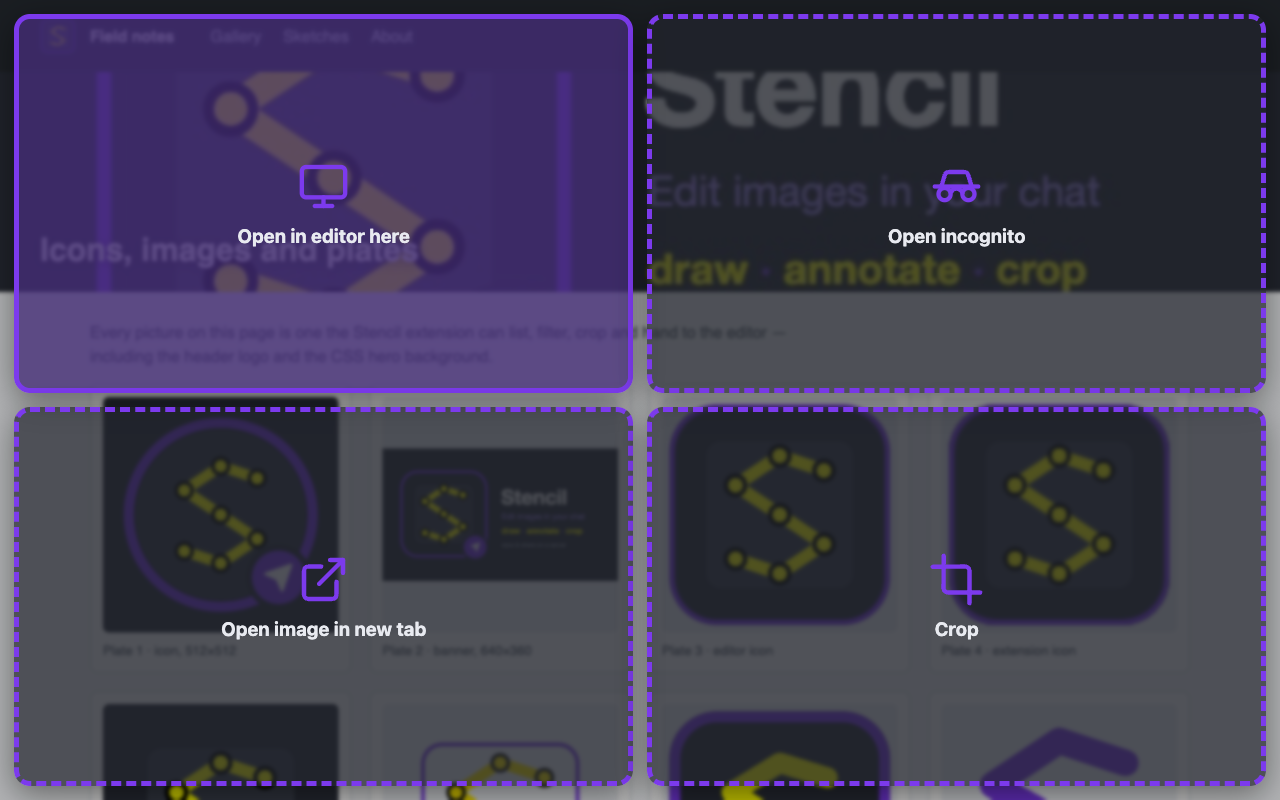
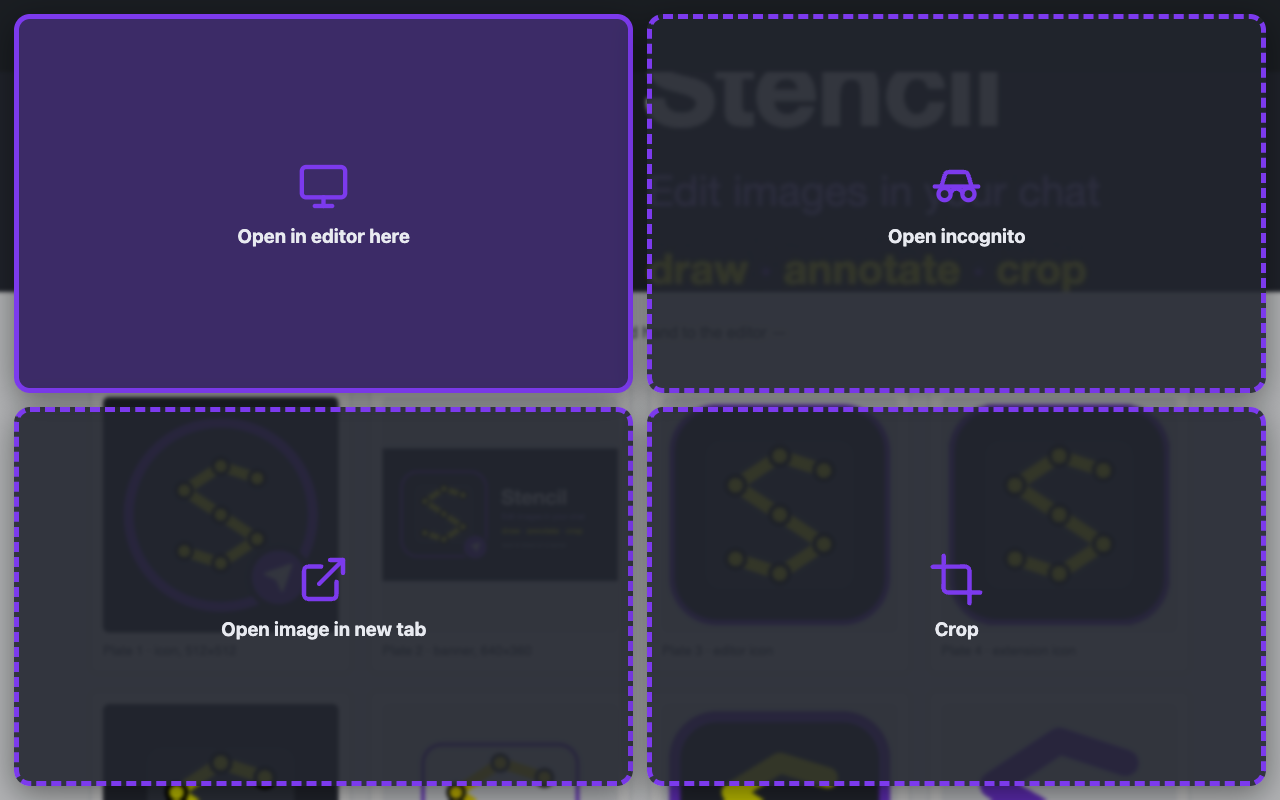
Give the extension's drag zones the editor's own weight

diff --git a/browser-extension/src/lib/drop/zones.js b/browser-extension/src/lib/drop/zones.js
@@ -32,8 +32,10 @@ export const mountDropZones = (accent = '#7c3aed', editor = false, mode = 'syste
   let prefersDark = false;
   try { prefersDark = window.matchMedia('(prefers-color-scheme: dark)').matches; } catch (e) { /* no matchMedia */ }
   const dark = mode === 'dark' || (mode !== 'light' && prefersDark);
-  // Panel colours from lib/theme/palette.css, at .69/.72 alpha so the page still reads.
-  const cellBg = dark ? 'rgba(33,36,45,.69)' : 'rgba(244,245,247,.72)';
+  // Panel colours from lib/theme/palette.css, at the editor's own .88 (browser
+  // controls.css #global-drop-overlay .drop-zone) so a target reads as a target.
+  const cellBg = dark ? 'rgba(33,36,45,.88)' : 'rgba(244,245,247,.88)';
+  const cellSolid = dark ? '#21242d' : '#f4f5f7';
   const cellFg = dark ? '#e8eaf0' : '#1d2230';
   const scrim = dark ? 'rgba(0,0,0,.28)' : 'rgba(255,255,255,.3)';
   const overMix = dark ? 30 : 22;
@@ -51,7 +53,8 @@ export const mountDropZones = (accent = '#7c3aed', editor = false, mode = 'syste
     /* The icon pulses (small → large → small) to catch the eye, like the editor's drop zones. */
     .cell .ic{color:${accent};transform-origin:center;animation:stencilDropPulse .9s ease-in-out infinite;}
     .cell .label{max-width:90%;}
-    .cell.over{background:color-mix(in srgb, ${accent} ${overMix}%, ${cellBg});border-style:solid;}
+    /* The aimed cell mixes into the SOLID panel colour, as the editor's aimed half does. */
+    .cell.over{background:color-mix(in srgb, ${accent} ${overMix}%, ${cellSolid});border-style:solid;}
     @keyframes stencilDropPulse{0%,100%{transform:scale(.8)}50%{transform:scale(1.25)}}
     @media (prefers-reduced-motion: reduce){ .cell .ic{animation-duration:.001ms;} .cell{transition-duration:.001ms;} }
   `;

diff --git a/browser-extension/tests/background/handlers/dropZones.test.js b/browser-extension/tests/background/handlers/dropZones.test.js
@@ -53,11 +53,15 @@ test('the zone palette follows the Appearance choice, not the OS', (t) => {
   assert.match(stylesFor('system', false), /background:rgba\(244,245,247/);
 });
 
-test('the zone panels let a fifth more of the page through', (t) => {
+test('the zone panels carry the editor\'s own weight', (t) => {
   t.mock.timers.enable({ apis: ['setTimeout'] });
-  // .86/.90 → .69/.72: a 20% cut, so the page under the zones stays readable.
-  assert.match(stylesFor('dark', false), /rgba\(33,36,45,\.69\)/);
-  assert.match(stylesFor('light', true), /rgba\(244,245,247,\.72\)/);
+  // .88 = the editor's own zone fill (browser controls.css #global-drop-overlay .drop-zone),
+  // so a target drawn on a page and one drawn on the canvas read alike.
+  assert.match(stylesFor('dark', false), /rgba\(33,36,45,\.88\)/);
+  assert.match(stylesFor('light', true), /rgba\(244,245,247,\.88\)/);
+  // …and the aimed cell mixes into the SOLID panel colour, as the editor's aimed half does.
+  assert.match(stylesFor('dark', false), /\.cell\.over\{background:color-mix\(in srgb, \S+ 30%, #21242d\)/);
+  assert.match(stylesFor('light', true), /\.cell\.over\{background:color-mix\(in srgb, \S+ 22%, #f4f5f7\)/);
 });
 
 test('the service worker hands the Appearance mode to the injected zones', () => {
